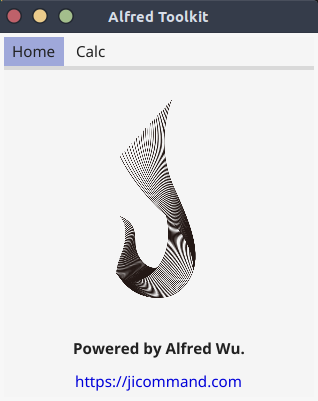
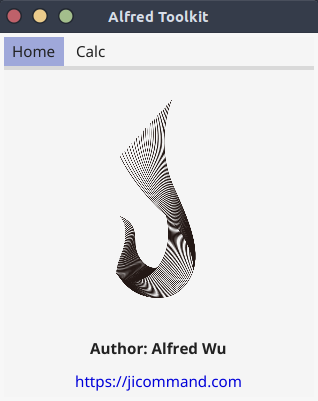
modified about

Changed region(s): [[0.2264, 0.8379, 0.7642, 0.8978]]

diff --git a/screens/homepage.go b/screens/homepage.go
@@ -18,7 +18,7 @@ func makeMainPageTab() fyne.Widget {
 		fyne.LogError("Could not parse URL", err)
 	}
 
-	name := widget.NewLabelWithStyle("Powered by Alfred Wu.", fyne.TextAlignCenter, fyne.TextStyle{Bold: true})
+	name := widget.NewLabelWithStyle("Author: Alfred Wu", fyne.TextAlignCenter, fyne.TextStyle{Bold: true})
 
 	return widget.NewVBox(
 		layout.NewSpacer(),
